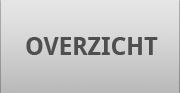
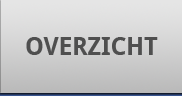
Updated images and css for menu

Changed region(s): [[0.1389, 0.3871, 0.8889, 0.6022], [0.0, 0.0, 1.0, 1.0]]

diff --git a/war/delta.html b/war/delta.html
@@ -48,7 +48,44 @@
 </div>
 
 
-<div id="menu" class="menubar"><a href="http://www.google.be">Testing</a></div>
+<div id="menu" class="menubar">
+
+	<div class="menubutton-container">
+	
+			<a href="#/intro2" class="menubutton">
+				<img src="../images/button_overzicht.png" 
+				onmouseover="this.src='../images/button_overzicht_hover.png'" 
+				onmouseout="this.src='../images/button_overzicht.png'">
+			</a>
+			
+			<a href="#/intro1" class="menubutton">
+				<img src="../images/button_activiteiten.png" 
+				onmouseover="this.src='../images/button_activiteiten_hover.png'" 
+				onmouseout="this.src='../images/button_activiteiten.png'">
+			</a>
+			
+			<a href="#/intro1" class="menubutton">
+				<img src="../images/button_overzicht.png" 
+				onmouseover="this.src='../images/button_overzicht_hover.png'" 
+				onmouseout="this.src='../images/button_overzicht.png'">
+			</a>
+			
+			<a href="#/intro1" class="menubutton">
+				<img src="../images/button_overzicht.png" 
+				onmouseover="this.src='../images/button_overzicht_hover.png'" 
+				onmouseout="this.src='../images/button_overzicht.png'">
+			</a>
+			
+			<a href="#/intro1" class="menubutton">
+				<img src="../images/button_overzicht.png" 
+				onmouseover="this.src='../images/button_overzicht_hover.png'" 
+				onmouseout="this.src='../images/button_overzicht.png'">
+			</a>
+	
+	</div>
+	
+
+</div>
 
 
 <div id="impress">
@@ -78,7 +115,7 @@
 
 
     <div id="intro2" class="step slide" data-x="1000" data-y="-1500">
-<!--         <q>Don't you think that presentations given <strong>in modern browsers</strong> shouldn't <strong>copy the limits</strong> of 'classic' slide decks?</q> -->
+		
     </div>
 
     <!--

diff --git a/war/css/impress-demo.css b/war/css/impress-demo.css
@@ -64,12 +64,13 @@ body {
     
     min-height: 740px;
 
-    background: rgb(215, 215, 215);
-    background: -webkit-gradient(radial, 50% 50%, 0, 50% 50%, 500, from(rgb(240, 240, 240)), to(rgb(190, 190, 190)));
-    background: -webkit-radial-gradient(rgb(240, 240, 240), rgb(190, 190, 190));
-    background:    -moz-radial-gradient(rgb(240, 240, 240), rgb(190, 190, 190));
-    background:      -o-radial-gradient(rgb(240, 240, 240), rgb(190, 190, 190));
-    background:         radial-gradient(rgb(240, 240, 240), rgb(190, 190, 190));
+	background: #4466AC;
+/*     background: rgb(215, 215, 215); */
+/*     background: -webkit-gradient(radial, 50% 50%, 0, 50% 50%, 500, from(rgb(240, 240, 240)), to(rgb(190, 190, 190))); */
+/*     background: -webkit-radial-gradient(rgb(240, 240, 240), rgb(190, 190, 190)); */
+/*     background:    -moz-radial-gradient(rgb(240, 240, 240), rgb(190, 190, 190)); */
+/*     background:      -o-radial-gradient(rgb(240, 240, 240), rgb(190, 190, 190)); */
+/*     background:         radial-gradient(rgb(240, 240, 240), rgb(190, 190, 190)); */
 
     -webkit-font-smoothing: antialiased;
 }

diff --git a/war/css/custom.css b/war/css/custom.css
@@ -1,8 +1,26 @@
-
-
 .menubar {
-    color: yellow;
-    font-weight: bold;
-    font-size: 20px;
+	background-repeat: repeat-x;
+	background-image: url("../images/main_menu.png");
+    position: relative;
     z-index: 1000;
+/*     width: 100%; */
+    text-align: center;
+}
+
+/* The button container */
+.menubutton-container {
+	display: inline-block;
+	margin:auto;
+}
+
+/* The buttons themselves */
+.menubutton-container a {
+	float: left;
+	background: none;
+	padding: 0px;
+}
+
+/* The buttons when hovered */
+.menubutton-container a:HOVER {
+	background: none;
 }

diff --git a/src/delta/site/client/DeltaSite.java b/src/delta/site/client/DeltaSite.java
@@ -36,8 +36,6 @@ public class DeltaSite implements EntryPoint {
 		TestPage t = new TestPage();
 		RootPanel.get("intro2").add(t);
 		
-		RootPanel.get("topbar").add(new Topbar());
-		
 		
 		
 	}
